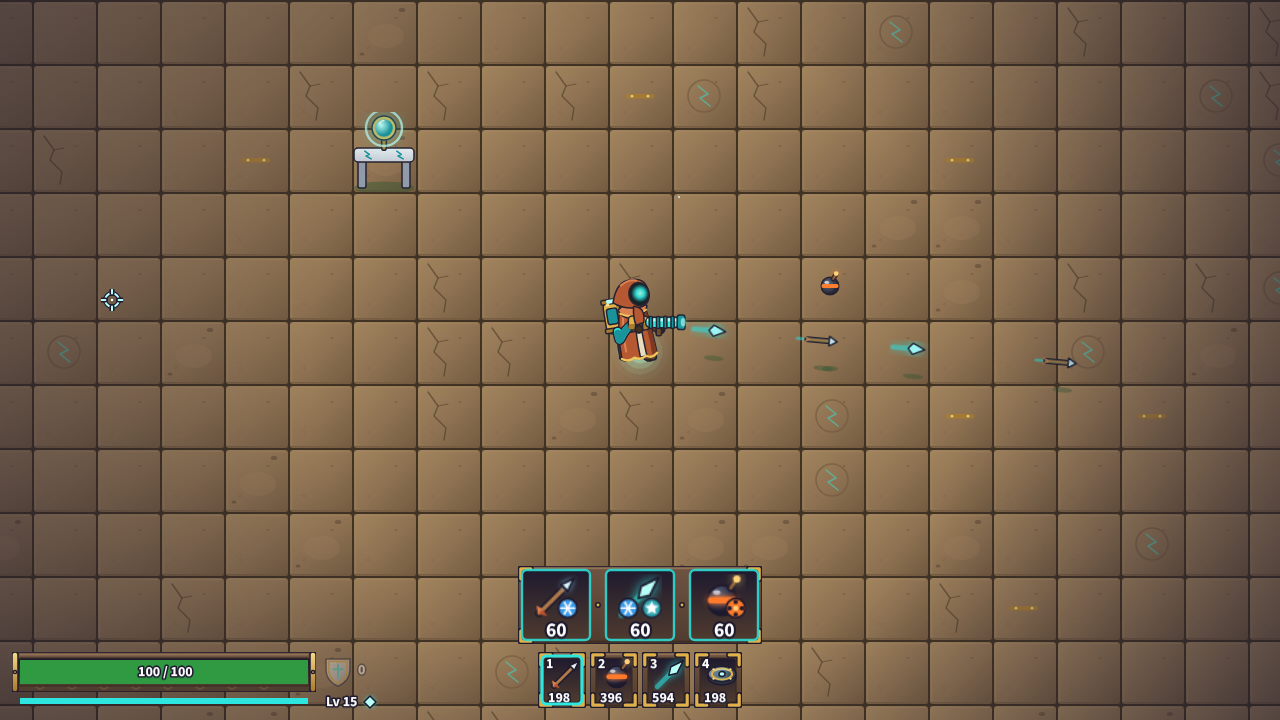
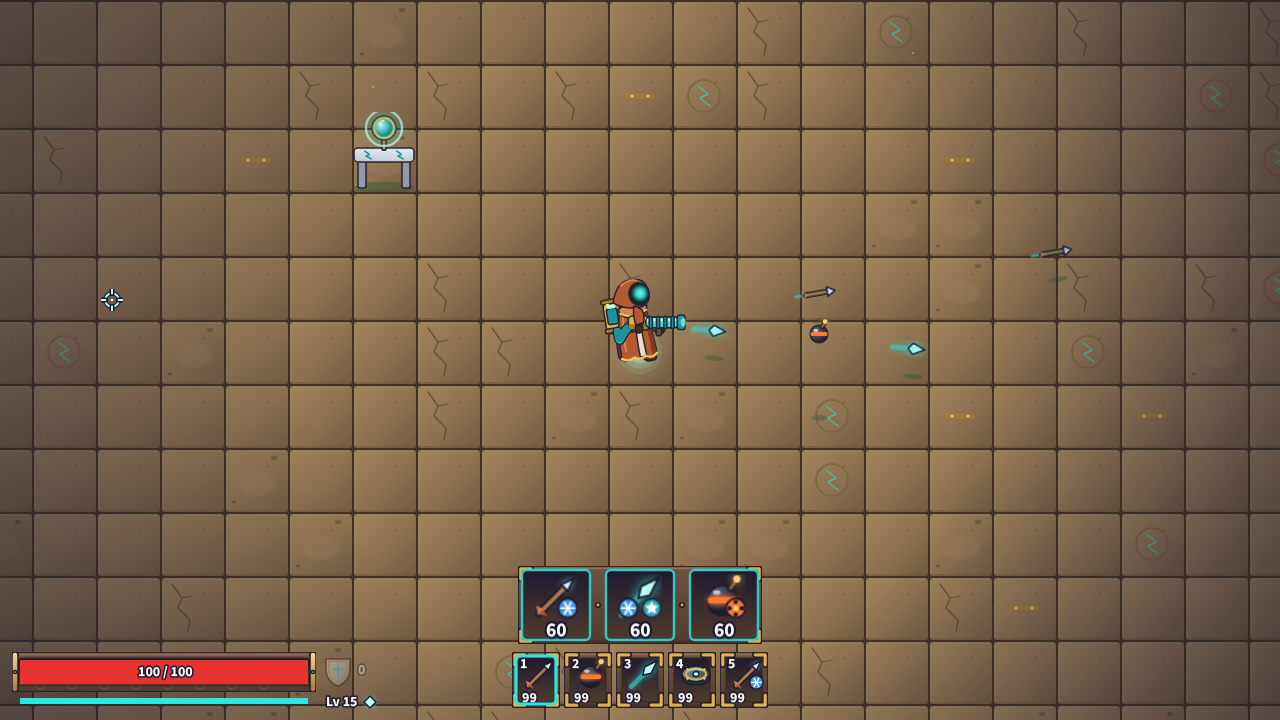
048: e2e for the fan in the sandbox, review shots, tube slot in lane order
volleyShape.spec.ts fires a mixed arrow and bomb volley and a bomb arc in
?sandbox and reads the fan from getState(); review shots in docs/review/048.
024's volley shot retaken on a quiet screen with the new fan, and 044's
mixed volley retaken; hud and spread e2e expect the lanes.

Claude-Session: https://claude.ai/code/session_019ig8gw5L4yavYF6tvwkS5C

diff --git a/tests/e2e/volleyShape.spec.ts b/tests/e2e/volleyShape.spec.ts
@@ -1,0 +1,102 @@
+import { expect, test, type Page } from '@playwright/test';
+import { SPREAD_STEP } from '../../src/data/foundry';
+import { cameraSettled, quietScreen, watchErrors } from './helpers';
+import { bootSandbox } from './sandboxPage';
+
+// The volley's shape (048), in the sandbox (044: three open, bottomless entrances): each
+// fed entrance fires down its own lane of one fan, west to east, whatever its ammo; a bomb
+// lands at the cursor's distance on its lane, so bombs land on an arc round the aim point.
+// With REVIEW_SHOTS=1, the review shots in docs/review/048: a three-lane mixed volley and a bomb arc.
+
+const SHOTS = 'docs/review/048';
+
+/** Sets the three entrances' rounds (west to east), god mode on, and returns the state. */
+function load(page: Page, rounds: (string | null)[]) {
+  return page.evaluate((rounds) => {
+    const g = window.__GAME__;
+    if (!g) throw new Error('no game');
+    g.step(1, { sandbox: { kind: 'god', on: true } });
+    rounds.forEach((round, entrance) => g.step(1, { sandbox: { kind: 'loadout', entrance, round } }));
+    return g.step(1);
+  }, rounds);
+}
+
+/** Fires one tick at `reach` px east of the player, then `settle` more ticks; the new arrows' angles off the aim by ammo, and the new bombs' landings as [angle, distance]. */
+function fire(page: Page, reach: number, settle: number) {
+  return page.evaluate(
+    ({ reach, settle }) => {
+      const g = window.__GAME__;
+      if (!g) throw new Error('no game');
+      const s = g.step(0);
+      const p = s.player;
+      const arrows = new Set(s.arrows.map((a) => a.id));
+      const bombs = new Set(s.bombs.map((b) => b.id));
+      const shot = g.step(1, { fire: true, aimX: p.x + reach, aimY: p.y });
+      const deg = (dx: number, dy: number) => Math.round((Math.atan2(dy, dx) * 1800) / Math.PI) / 10;
+      const fresh = shot.arrows.filter((a) => !arrows.has(a.id)).map((a) => [a.ammoId, deg(a.dx, a.dy)] as const);
+      const landings = shot.bombs
+        .filter((b) => !bombs.has(b.id))
+        .map((b) => [deg(b.target.x - p.x, b.target.y - p.y), Math.round(Math.hypot(b.target.x - p.x, b.target.y - p.y))] as const);
+      if (settle > 0) g.step(settle);
+      return { lanes: shot.intake.lanes, volley: shot.intake.volley, shotCount: shot.tube.shotCount, fresh, landings };
+    },
+    { reach, settle },
+  );
+}
+
+test('an arrow, a bomb and an arrow fire as one fan: arrows at ±15°, the bomb on the aim point', async ({ page }) => {
+  const errors = watchErrors(page);
+  await bootSandbox(page);
+  const s = await load(page, ['arrow', 'bomb', 'arrow']);
+  expect(s.intake.volley).toEqual(['arrow', 'bomb', 'arrow']);
+  expect(s.intake.lanes).toEqual([-SPREAD_STEP, 0, SPREAD_STEP]);
+  const out = await fire(page, 150, 0);
+  expect(out.shotCount).toBe(3);
+  expect(out.fresh).toEqual([
+    ['arrow', -SPREAD_STEP],
+    ['arrow', SPREAD_STEP],
+  ]);
+  expect(out.landings).toEqual([[0, 150]]);
+  expect(errors).toEqual([]);
+});
+
+test('two bombs and an arrow: the bombs land on the arc at the cursor’s distance, either side of the arrow', async ({ page }) => {
+  const errors = watchErrors(page);
+  await bootSandbox(page);
+  await load(page, ['bomb', 'arrow', 'bomb']);
+  const out = await fire(page, 150, 0);
+  expect(out.fresh).toEqual([['arrow', 0]]);
+  expect(out.landings).toEqual([
+    [-SPREAD_STEP, 150],
+    [SPREAD_STEP, 150],
+  ]);
+  expect(errors).toEqual([]);
+});
+
+test.describe('review screenshots (048)', () => {
+  test.skip(!process.env.REVIEW_SHOTS, 'set REVIEW_SHOTS=1 to capture docs/review/048');
+
+  test('a three-lane mixed volley, and a bomb arc', async ({ page }) => {
+    test.setTimeout(120_000);
+    await bootSandbox(page);
+    await cameraSettled(page, 20_000);
+    await quietScreen(page);
+
+    // An arrow west, a ley bolt centre, a frost arrow east: three lanes a few ticks out, each its own colour.
+    await load(page, ['arrow', 'ley-bolt', 'arrow+frost']);
+    const mixed = await fire(page, 220, 10);
+    expect(mixed.fresh.map(([, a]) => a)).toEqual([-SPREAD_STEP, 0, SPREAD_STEP]);
+    await page.screenshot({ path: `${SHOTS}/01-three-lane-mixed-volley.png` });
+
+    // Clear the air, then three bombs on the arc, caught just before they land.
+    await page.evaluate(() => window.__GAME__?.step(90));
+    await load(page, ['bomb', 'bomb', 'bomb']);
+    const arc = await fire(page, 160, 44);
+    expect(arc.landings).toEqual([
+      [-SPREAD_STEP, 160],
+      [0, 160],
+      [SPREAD_STEP, 160],
+    ]);
+    await page.screenshot({ path: `${SHOTS}/02-bomb-arc.png` });
+  });
+});

diff --git a/tests/e2e/spread.spec.ts b/tests/e2e/spread.spec.ts
@@ -1,6 +1,6 @@
 import { expect, test, type Page } from '@playwright/test';
 import { SPREAD_STEP } from '../../src/data/foundry';
-import { boot, cameraSettled, watchErrors } from './helpers';
+import { boot, cameraSettled, quietScreen, watchErrors } from './helpers';
 import { feedLines, restoreEntrance, toIntake, ui } from './intakePage';
 
 // Spreads from the intake (024): a warden core restores one side entrance (033: E at
@@ -11,13 +11,16 @@ import { feedLines, restoreEntrance, toIntake, ui } from './intakePage';
 
 const SHOTS = 'docs/review/024';
 
-/** Out in the meadow, aimed east, with ley bolts selected and carried: one press, which fires the volley first (028). Returns that tick's state and the aim. */
-function fireVolley(page: Page, settle = 0) {
-  return page.evaluate((settle) => {
+/**
+ * Out in the meadow (walking there unless `there`), aimed east, with ley bolts selected and carried: one press, which
+ * fires the volley first (028). Returns that tick's state and the aim.
+ */
+function fireVolley(page: Page, settle = 0, there = false) {
+  return page.evaluate(({ settle, there }) => {
     const g = window.__GAME__;
     const h = window.__helpers;
     if (!g || !h) throw new Error('no game');
-    h.toHall();
+    if (!there) h.toHall();
     window.__helpers?.hold('ley-bolt');
     const s = g.step(0);
     if ((s.inventory['ley-bolt'] ?? 0) === 0) throw new Error('no ley bolts carried');
@@ -28,7 +31,7 @@ function fireVolley(page: Page, settle = 0) {
     if (settle > 0) g.step(settle);
     const fresh = shot.arrows.filter((a) => !before.has(a.id));
     return { next, shot, aim, fresh };
-  }, settle);
+  }, { settle, there });
 }
 
 test('a warden core restores one entrance (033); two fed arrow entrances fire a two-arrow spread', async ({ page }) => {
@@ -113,9 +116,17 @@ test.describe('review screenshots (024)', () => {
     await cameraSettled(page);
     await page.screenshot({ path: `${SHOTS}/03-intake-open-fed.png` });
 
-    // The volley a few ticks out: two arrows fanned ±7.5° and a bomb straight up the middle.
-    const { shot } = await fireVolley(page, 8);
+    // The volley a few ticks out: one fan of three lanes (048), the arrows at ±15° and the bomb straight up the middle.
+    // Out in the hall first, with the door's fade and the schematic banner played out (046's quietScreen).
+    await page.evaluate(() => {
+      window.__helpers?.toHall();
+      window.__GAME__?.step(1);
+    });
+    await cameraSettled(page);
+    await quietScreen(page);
+    const { shot } = await fireVolley(page, 8, true);
     expect(shot.intake.volley).toEqual(['arrow', 'bomb', 'arrow']);
+    expect(shot.intake.lanes).toEqual([-SPREAD_STEP, 0, SPREAD_STEP]);
     expect(shot.tube.shotCount).toBe(3);
     await cameraSettled(page);
     await page.screenshot({ path: `${SHOTS}/04-volley-in-flight.png` });

diff --git a/tests/e2e/hud.spec.ts b/tests/e2e/hud.spec.ts
@@ -1,6 +1,7 @@
 import { expect, test, type Page } from '@playwright/test';
 import { SPRITES } from '../../src/data/assets';
 import { VIEW_HEIGHT, VIEW_WIDTH } from '../../src/data/config';
+import { SPREAD_STEP } from '../../src/data/foundry';
 import { HUD_LAYOUT } from '../../src/data/hudLayout';
 import type { BottomHudState } from '../../src/render/HudView';
 import { boot, cameraSettled, quietScreen, watchErrors } from './helpers';
@@ -130,8 +131,8 @@ test('an arrow and a bomb entrance show as the whole volley, each with its count
   expect(out.hud.active).toEqual({
     kind: 'volley',
     rounds: [
-      { ammoId: 'arrow', count: counts[0] },
-      { ammoId: 'bomb', count: counts[1] },
+      { ammoId: 'arrow', count: counts[0], lane: -SPREAD_STEP / 2 },
+      { ammoId: 'bomb', count: counts[1], lane: SPREAD_STEP / 2 },
     ],
   });
   const hud = await hudShowing(page, counts.map(String));

diff --git a/src/render/TubeSlotView.ts b/src/render/TubeSlotView.ts
@@ -25,7 +25,8 @@ export interface TubeSlotState extends ScreenBox {
 
 // The intake's bar (025, 047: the tube slot): centred above the carried bar and `activeScale`
 // times its size, it shows what the next left click does, as the sim's `hudActive` says: the
-// volley, one icon per round with its entrance's count; before the tube attunes, the selected
+// volley, one icon per round with its entrance's count, in lane order (048: the left unit fires
+// left of the cursor, the right one right); before the tube attunes, the selected
 // carried round with how many are carried (047.9); else a fist labelled "Melee".
 export class TubeSlotView {
   private readonly frame: GameObjects.Image;
